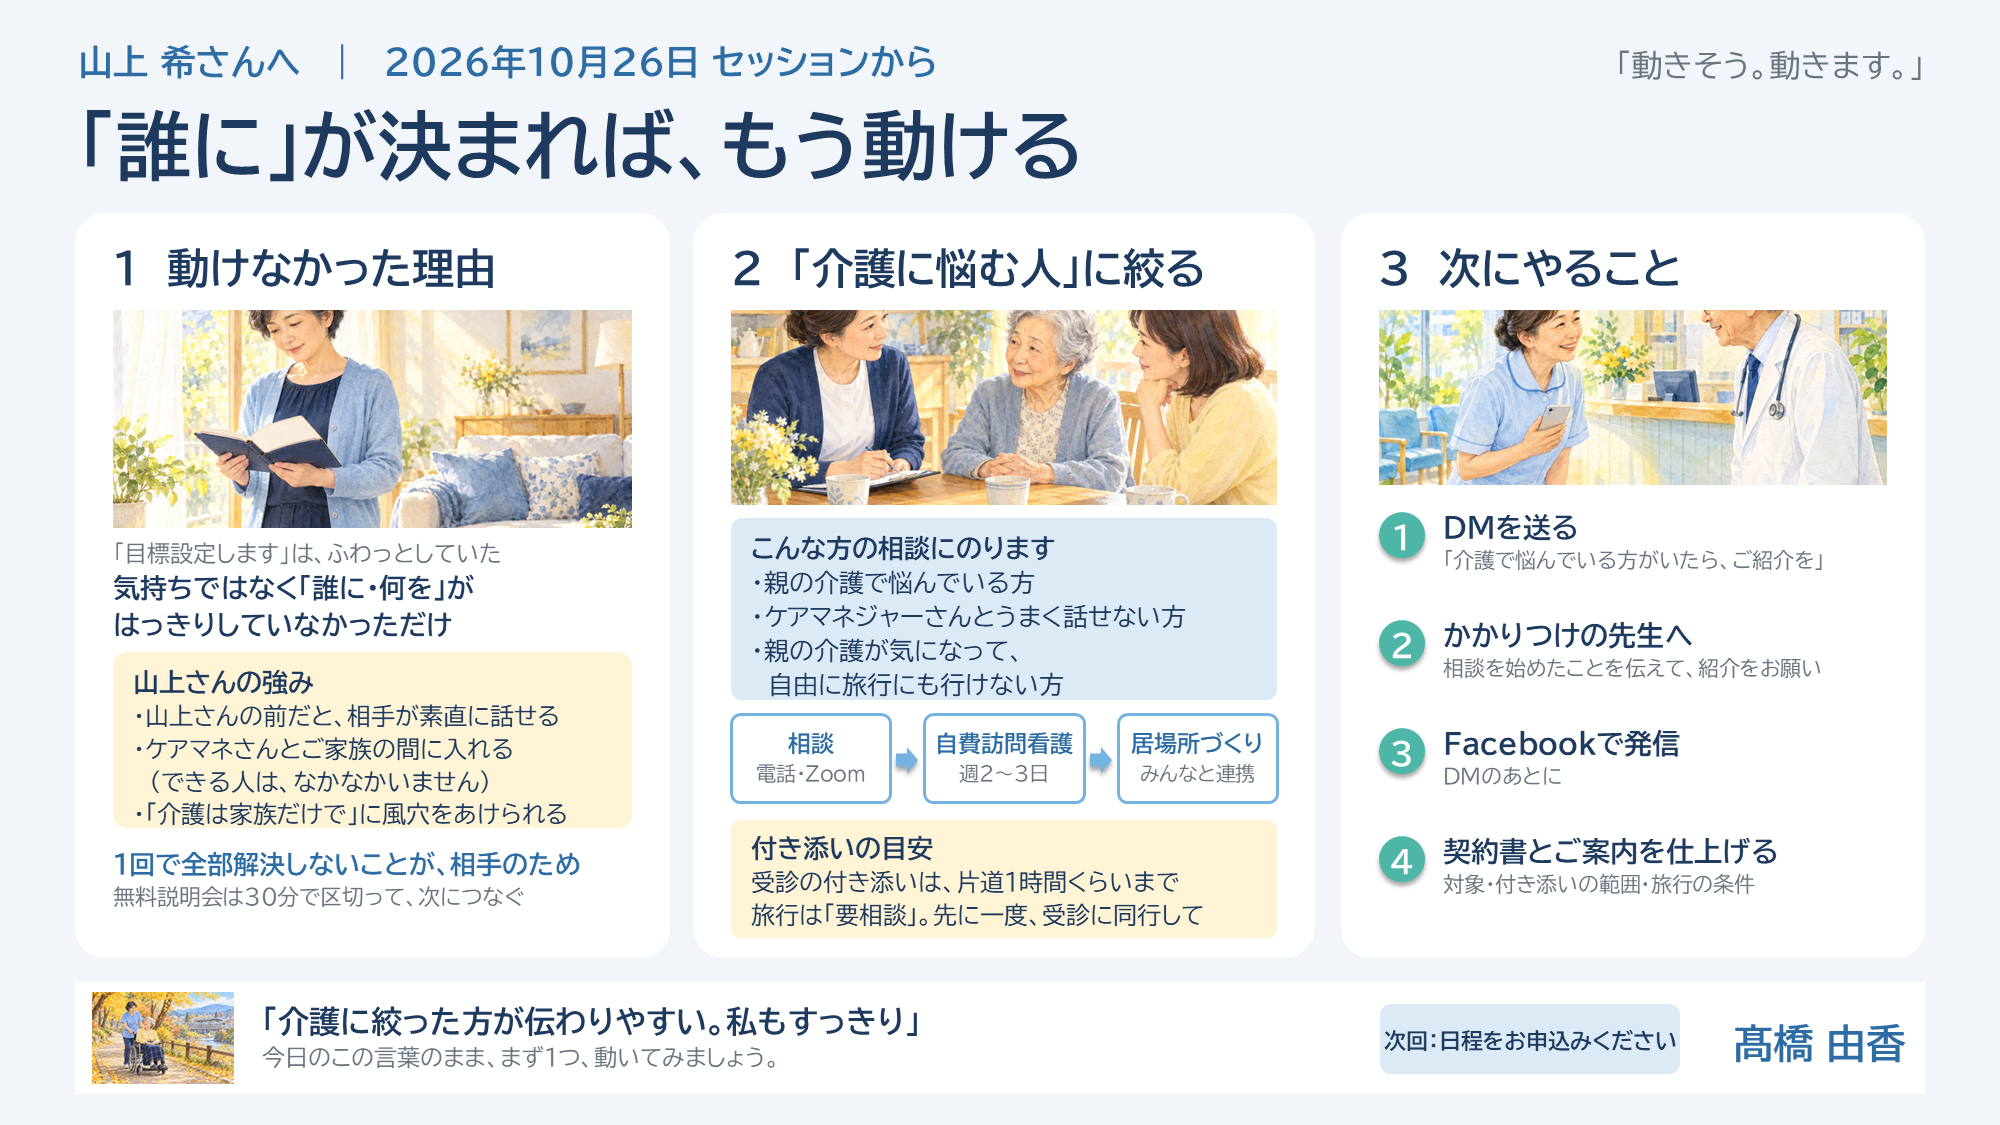
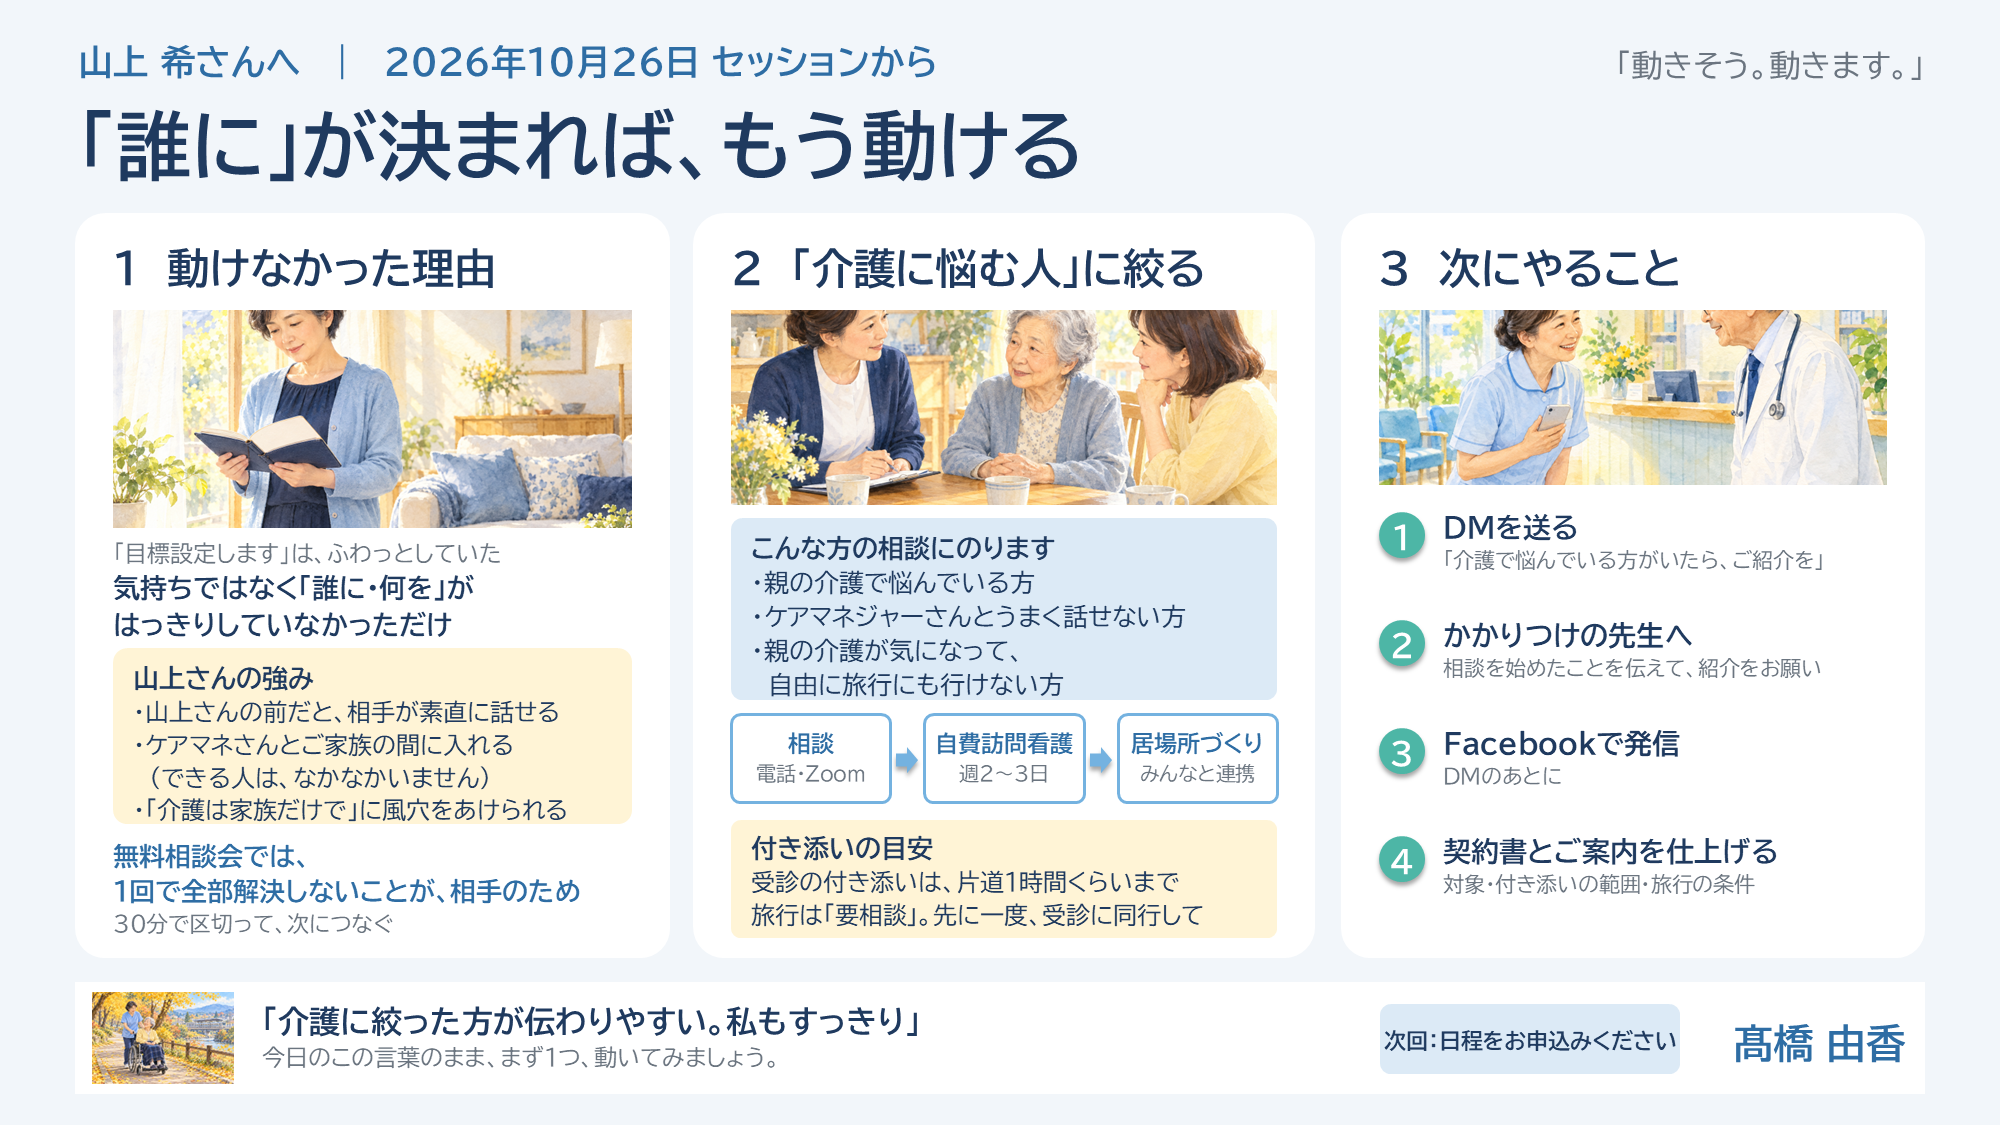
Auto-save 2026-10-26 12:27

Changed region(s): [[0.062, 0.56, 0.31, 0.84]]

diff --git a/20_Projects/企業のオンライン保健室養成講座/初級コース/山上希/セッションログ/20261026_山上希さん_セッションまとめ.md b/20_Projects/企業のオンライン保健室養成講座/初級コース/山上希/セッションログ/20261026_山上希さん_セッションまとめ.md
@@ -34,7 +34,7 @@
 
 ## 5. 無料相談から有料へつなげるには
 
-- これまでの無料相談は「すっきりして終わり」になりがちでした。**1回ですべて解決しないことが、相手のためになる**と考えてみてください。
+- これまでの無料相談は「すっきりして終わり」になりがちでした。**無料相談会では、1回ですべて解決しないことが、相手のためになる**と考えてみてください。
 - 名前は「無料相談」より「**無料説明会**」のように、答えを渡す場ではないことが伝わるものに。
 - 初回は**30分**で区切ります。最初の5分で目的を伝え、30分話を聴いたら、「続きは有料になります」とお伝えするか、「次回、ご提案を持ってあらためてお話しさせてください」とします。
 - 「このまま進むとどうなりそうか」「同じことがまた起きた時、どうしますか」を一緒に見ることで、続ける理由が本人の中に生まれます。

diff --git a/20_Projects/企業のオンライン保健室養成講座/初級コース/山上希/セッションログ/20261026_由香さんへのアドバイス.md b/20_Projects/企業のオンライン保健室養成講座/初級コース/山上希/セッションログ/20261026_由香さんへのアドバイス.md
@@ -56,7 +56,7 @@
 
 ## ⑪ 由香さんが講師として伝えるべきこと
 - 「対象を絞る＝断る」ではなく「選ばれる理由をつくる」こと。
-- 1回で解決しない方が相手のため、という考え方（由香さん自身が言われてきたこと）。
+- 無料相談会では、1回で解決しない方が相手のため、という考え方（由香さん自身が言われてきたこと）。
 - 逆算（ゴールの商品→入口の設計）。
 - 「動けない」時は、意欲より先に「誰に・何を」が言葉になっているかを疑う、という見方。
 
